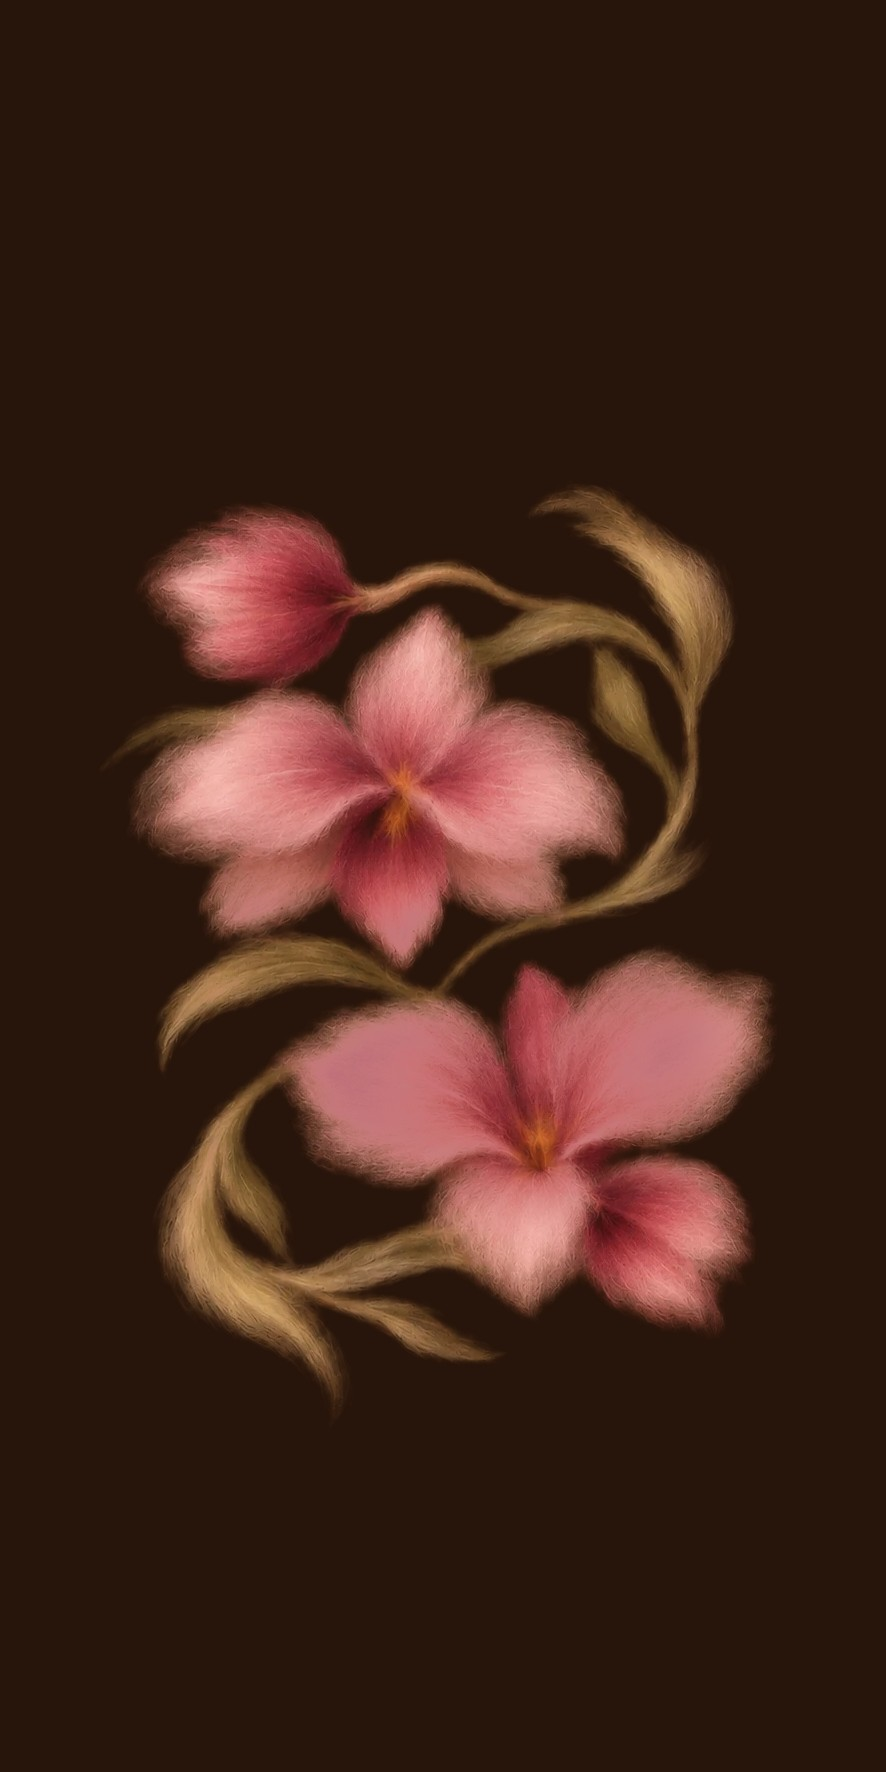
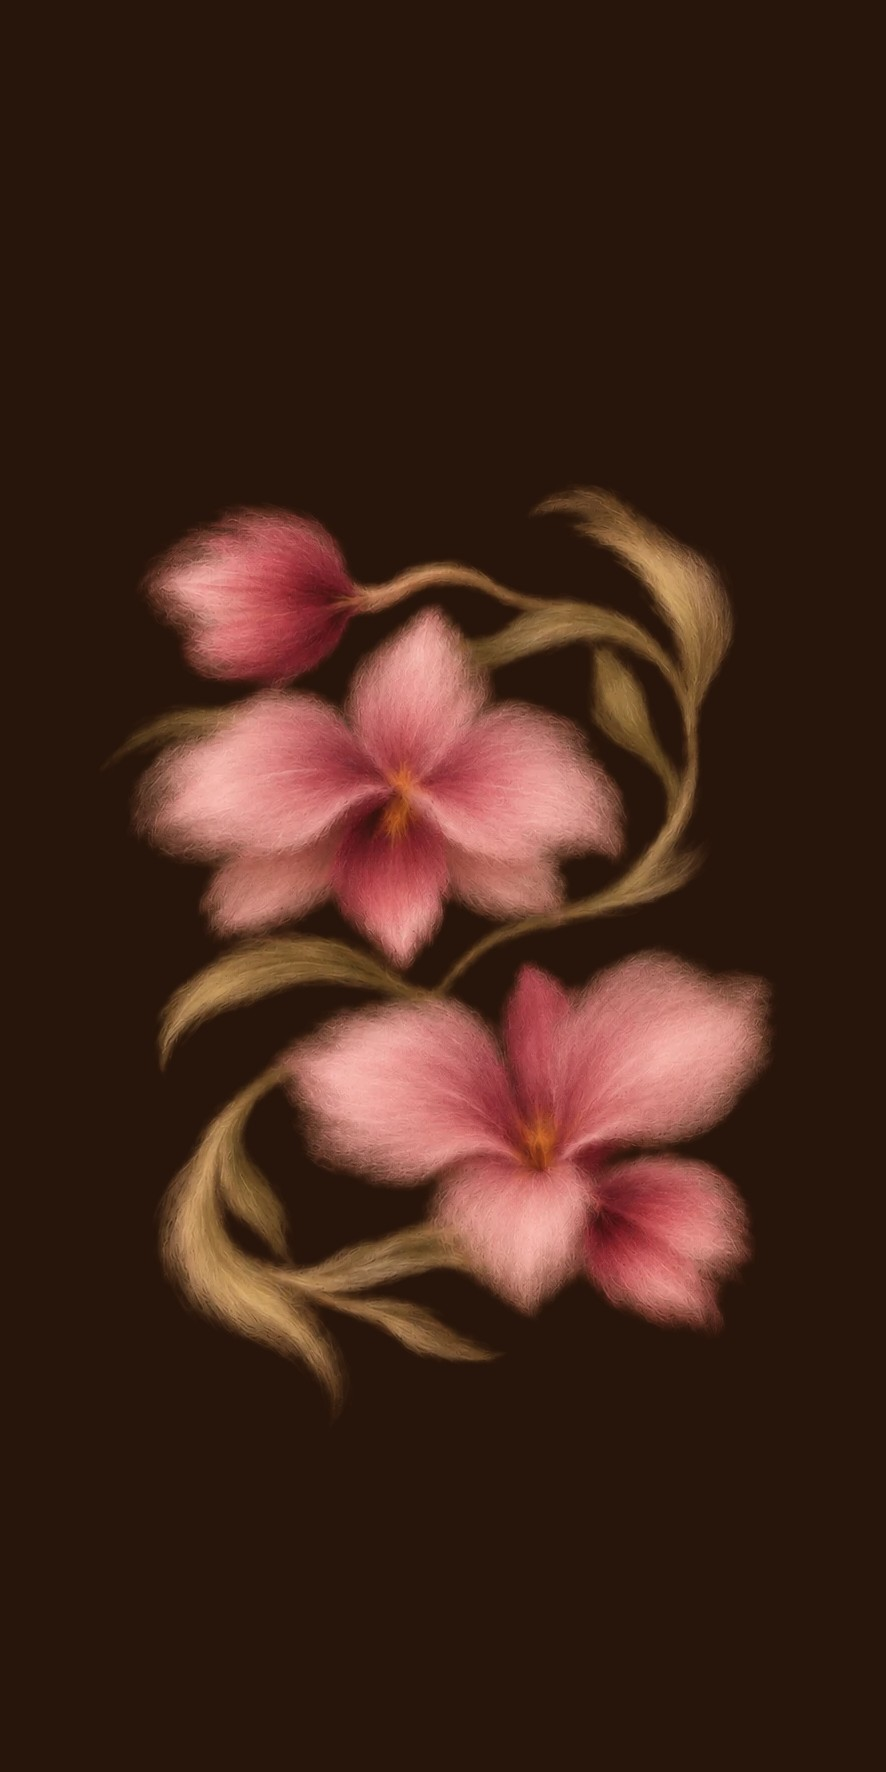
content: las flores de portada con sus colores originales

Changed region(s): [[0.3352, 0.5587, 0.5181, 0.6518], [0.7009, 0.5587, 0.8228, 0.6208], [0.4266, 0.4966, 0.4876, 0.5277]]

diff --git a/index.html b/index.html
@@ -119,8 +119,8 @@
             <!-- Las flores a pastel sobre fondo marron oscuro: en vertical en el movil
                  y giradas en horizontal en el ordenador, ocupando casi toda la pantalla. -->
             <picture>
-              <source media="(max-width: 820px)" srcset="assets/images/hero-flores-movil.jpg?v=7" />
-              <img class="hero__photo" src="assets/images/hero-flores-ordenador.jpg?v=7" alt="" />
+              <source media="(max-width: 820px)" srcset="assets/images/hero-flores-movil.jpg?v=8" />
+              <img class="hero__photo" src="assets/images/hero-flores-ordenador.jpg?v=8" alt="" />
             </picture>
           </div>
           <div class="hero__copy">
